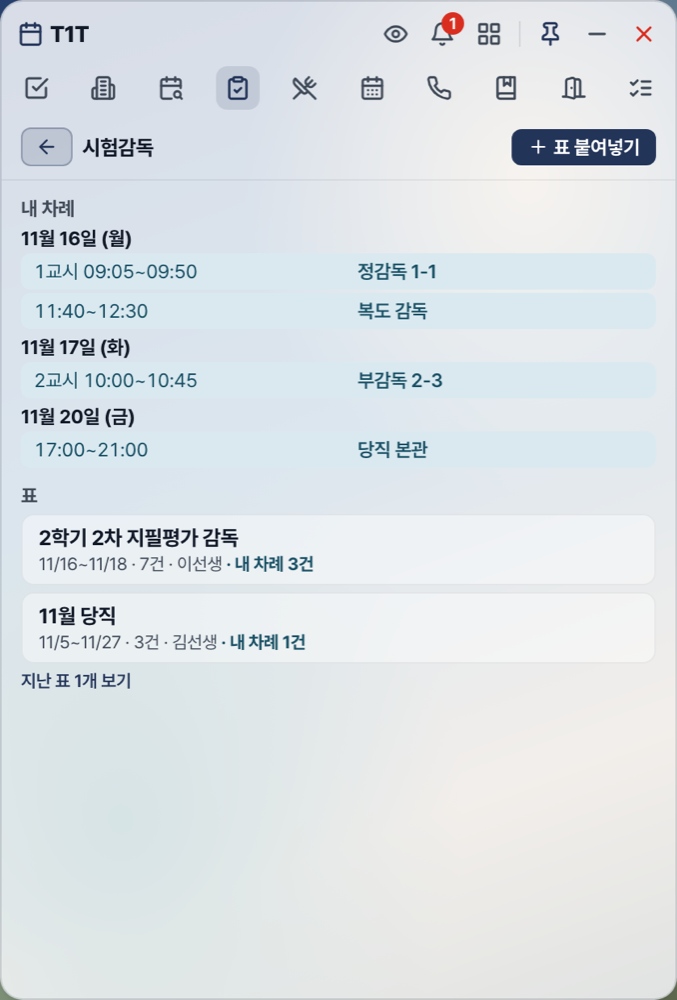
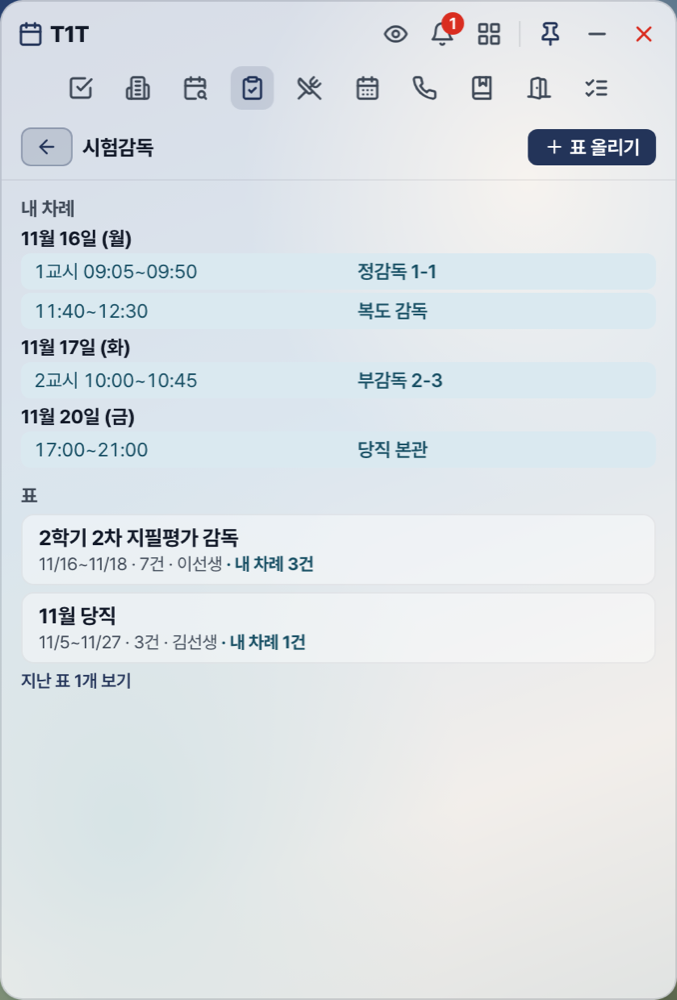
docs: 안내서와 README에 파일 올리기와 아이콘 줄 반영

diff --git a/docs/T1T-교사_사용안내서.html b/docs/T1T-교사_사용안내서.html
@@ -121,7 +121,7 @@
 <div class="cover">
   <h1>T1T 교사 사용 안내서</h1>
   <div class="tag">학교 일정 공유 시스템 · 태성중·고</div>
-  <div class="ver">v2.6.4 기준 · 2026.11</div>
+  <div class="ver">v2.6.5 기준 · 2026.11</div>
 </div>
 
 <div class="toc">
@@ -169,7 +169,7 @@
   <div class="feature"><b>쪽지 · 공문 붙여넣기</b><div class="desc">날짜를 읽어 개인 일정 초안을 만듭니다</div></div>
   <div class="feature"><b>수업 화면 보호</b><div class="desc">내 수업 시간에 개인 일정을 자동으로 가립니다</div></div>
   <div class="feature"><b>회의 시간 찾기</b><div class="desc">대상 교사가 모두 수업이 없는 교시를 보여 줍니다</div></div>
-  <div class="feature"><b>시험감독 표</b><div class="desc">표를 붙여 넣으면 각자 달력에 차례가 나타납니다</div></div>
+  <div class="feature"><b>시험감독 표</b><div class="desc">파일을 올리거나 표를 붙여 넣으면 각자 달력에 차례가 나타납니다</div></div>
   <div class="feature"><b>컴시간 시간표</b><div class="desc">내 수업 표시, 수업 전 알림, 수업 변경 알림</div></div>
   <div class="feature"><b>테마와 개인 옵션</b><div class="desc">테마 7종, 강조색, 글자 크기, 크게 보기</div></div>
   <div class="feature"><b>일정 알림</b><div class="desc">10분 · 30분 · 1시간 · 1일 전 알림</div></div>
@@ -311,7 +311,7 @@
 </table>
 
 <h3>제목 줄과 도구 모음</h3>
-<p>제목 줄에는 날짜 이동, 개인 일정 가리기(눈 아이콘), 알림(종 아이콘), 도구 모음(격자 아이콘)이 있습니다. 그 아래 아이콘 줄에 할 일, 회의실, 회의 찾기, 시험감독, 급식, 학사일정, 키폰, 도서관, 외출시스템, 외출상황이 늘 보입니다. 아이콘에 마우스를 올리면 이름이 나옵니다. 창이 아주 넓으면 아이콘이 제목 줄로 합쳐지고 검색과 설정도 함께 보입니다.</p>
+<p>제목 줄에는 날짜 이동, 개인 일정 가리기(눈 아이콘), 알림(종 아이콘), 도구 모음(격자 아이콘)이 있습니다. 그 아래 가운데 아이콘 줄에 할 일, 회의실, 회의 찾기, 시험감독, 급식, 학사일정, 키폰, 도서관, 외출시스템, 외출상황이 늘 보입니다. 아이콘에 마우스를 가까이 대면 커지면서 이름이 나오고 색이 바뀝니다. 창이 아주 넓으면 아이콘이 제목 줄로 합쳐지고 검색과 설정도 함께 보입니다.</p>
 <div class="toolbar">
   <div class="ic-card"><div class="nm">할 일</div><div class="ds">내 작업 관리</div></div>
   <div class="ic-card"><div class="nm">회의실</div><div class="ds">회의실 예약</div></div>
@@ -453,23 +453,26 @@
 <h3>담당자</h3>
 <div class="step">
   <ol>
-    <li>아이콘 줄이나 도구 모음에서 <b>시험감독</b>을 열고 <b>표 붙여넣기</b>를 누릅니다.</li>
+    <li>아이콘 줄이나 도구 모음에서 <b>시험감독</b>을 열고 <b>표 올리기</b>를 누릅니다.</li>
     <li>표 이름, 학교, 기본 종류(시험 감독, 당직 등)를 넣습니다.</li>
-    <li>엑셀이나 한글에서 표를 복사해 붙여 넣습니다.</li>
+    <li><b>파일 올리기</b>로 엑셀, 한글(hwp, hwpx), 워드, PDF, 사진을 올립니다. 끌어다 놓아도 되고, 표를 복사하거나 화면을 캡처해 붙여 넣어도 됩니다.</li>
     <li><b>확인할 이름</b>을 고치고, 시험 교시가 수업 시정표와 다르면 <b>교시 시각</b>을 고칩니다.</li>
     <li>날짜별 내용을 확인하고 저장합니다.</li>
   </ol>
 </div>
-<p>읽을 수 있는 표 모양은 네 가지입니다.</p>
+<p>제목 줄이 있어도, 칸이 병합되어 있어도, 표가 날짜별로 나뉘어 있어도 읽습니다. 자주 쓰는 모양은 다음과 같습니다.</p>
 <table>
   <tr><th>모양</th><th>예</th></tr>
+  <tr><td>고사실이 열</td><td>일자 | 교시 | 1-1 | 1-2 | 2-1 …, 칸에 이름</td></tr>
+  <tr><td>고사실이 행</td><td>고사실 | 1교시 | 2교시 …, 날짜는 표 위의 줄이나 시트 이름</td></tr>
+  <tr><td>날짜 · 교시가 열</td><td>고사실 | 11/16 1교시 | 11/16 2교시 …</td></tr>
+  <tr><td>교사가 행</td><td>성명 | 11/16 1교시 …, 칸에 고사실이나 ○ 표시</td></tr>
   <tr><td>목록</td><td>날짜 | 교시 | 고사실 | 감독</td></tr>
-  <tr><td>날짜 · 교시가 열</td><td>첫 열이 고사실이면 칸에 이름, 첫 열이 이름이면 칸에 고사실이나 ○ 표시</td></tr>
-  <tr><td>교시가 열</td><td>첫 열이 날짜, 칸에 이름</td></tr>
   <tr><td>날짜 묶음</td><td>날짜만 있는 줄 아래에 "1교시 김철수 이영희"</td></tr>
 </table>
+<p class="small"><b>사진은 글자를 잘못 읽을 수 있습니다.</b> 저장하기 전에 이름과 날짜를 꼭 확인해 주세요. 엑셀이나 한글 파일이 있으면 그 파일이 더 정확합니다. 손글씨, 암호가 걸린 파일, 배포용 한글 파일, 아이폰 HEIC 사진은 읽지 못합니다.</p>
 <div class="warn">
-  표는 모든 선생님이 볼 수 있습니다. <b>시험 문제, 평가 자료, 개인 사유는 넣지 마세요.</b> 원문은 저장하지 않고 이름, 날짜, 시각, 장소, 종류만 남습니다. 틀리게 읽을 수 있으니 저장 전에 꼭 확인해 주세요. 교사별 횟수는 표를 만든 사람과 관리자에게만 보입니다.
+  표는 모든 선생님이 볼 수 있습니다. <b>시험 문제, 평가 자료, 개인 사유는 넣지 마세요.</b> 파일은 이 PC 안에서 읽어 어디로도 보내지 않으며, 원문은 저장하지 않고 이름, 날짜, 시각, 장소, 종류만 남습니다. 틀리게 읽을 수 있으니 저장 전에 꼭 확인해 주세요. 교사별 횟수는 표를 만든 사람과 관리자에게만 보입니다.
 </div>
 
 <h2>13. 테마와 개인 옵션</h2>
@@ -539,8 +542,8 @@
 </div>
 
 <div class="footer">
-  T1T v2.6.4 · 2026.11 · 태성중·고 학교 일정 공유 시스템<br>
-  본 안내서는 v2.6.4 기준이며, 자동 업데이트로 일부 화면이 다를 수 있습니다. 그림의 이름은 예시입니다.
+  T1T v2.6.5 · 2026.11 · 태성중·고 학교 일정 공유 시스템<br>
+  본 안내서는 v2.6.5 기준이며, 자동 업데이트로 일부 화면이 다를 수 있습니다. 그림의 이름은 예시입니다.
 </div>
 
 </body>

diff --git a/README.md b/README.md
@@ -11,7 +11,7 @@
 - 🔁 **반복 일정과 일정 응답** — 평일·매주·격주·매월, 참석·불참·확인
 - 🔒 **수업 화면 보호** — 내 수업 시간에 개인 일정 자동 가리기, Ctrl+Shift+H
 - 🔎 **회의 시간 찾기** — 회원과 요일을 고르면 시간표와 공유 일정만으로 공강 5곳 추천
-- 🗂 **시험감독 표** — 표를 붙여 넣으면 각자 달력에 차례 표시
+- 🗂 **시험감독 표** — 엑셀, 한글, 워드, PDF, 사진을 올리면 PC 안에서 읽어 각자 달력에 차례 표시
 - 📝 **쪽지·공문 붙여넣기** — 날짜를 읽어 개인 일정 초안 만들기
 - 🎨 **테마 7종과 개인 옵션** — 강조색, 글자 크기, 크게 보기, 색 구분 돕기
 - ✅ **할 일** — 우선순위·마감일·인라인 수정
